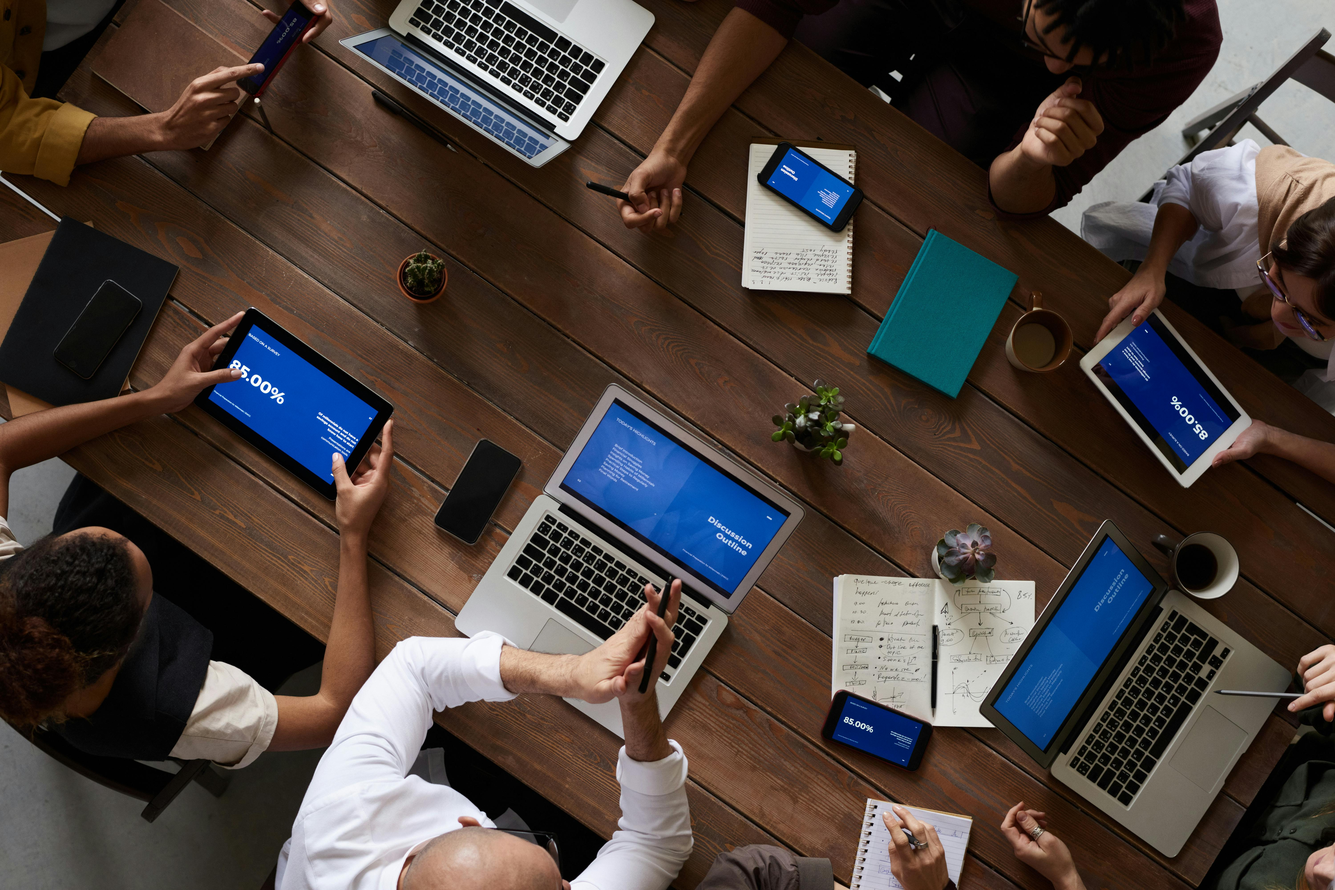
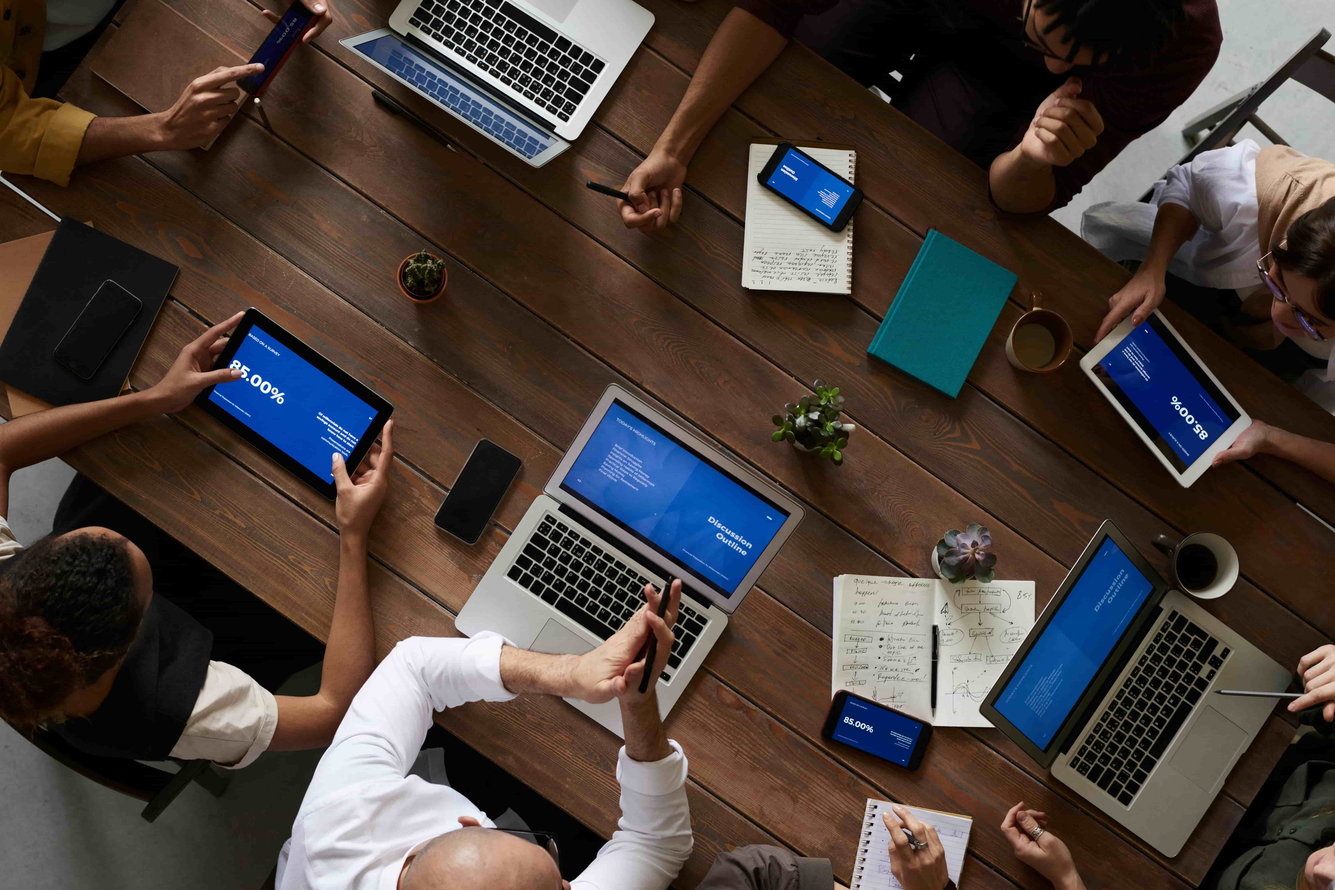
enforced www

Changed region(s): [[0.2493, 0.4683, 0.2805, 0.4995]]

diff --git a/components/footer.tsx b/components/footer.tsx
@@ -1,6 +1,7 @@
-import { FaFacebookF, FaTwitter, FaLinkedinIn, FaInstagram,FaPaperPlane } from "react-icons/fa";
+import { FaFacebookF, FaTiktok , FaLinkedinIn, FaInstagram,FaYoutube } from "react-icons/fa";
 import Link from "next/link";
 import NewsletterForm from "./Newsletter";
+import { FaX, FaY, FaXTwitter } from "react-icons/fa6";
 
 export default function Footer() {
   return (
@@ -32,10 +33,10 @@ export default function Footer() {
         <div className="flex flex-col gap-4 mt-4 md:mt-0 motion-preset-fade motion-delay-400">
           <h4 className="font-semibold text-gray-200">Socials</h4>
           <div className="flex gap-4">
-            <a href="#" className="text-gray-400 hover:text-peach transition"><FaFacebookF /></a>
-            <a href="#" className="text-gray-400 hover:text-peach transition"><FaTwitter /></a>
-            <a href="#" className="text-gray-400 hover:text-peach transition"><FaLinkedinIn /></a>
-            <a href="#" className="text-gray-400 hover:text-peach transition"><FaInstagram /></a>
+            <a href="https://www.facebook.com/profile.php?id=61588566181619" className="text-gray-400 hover:text-peach transition" target="_blank"><FaFacebookF /></a>
+            <a href="https://x.com/peach_state2026" className="text-gray-400 hover:text-peach transition" target="_blank"><FaXTwitter /></a>
+            <a href="https://www.tiktok.com/@peach_state_tech" className="text-gray-400 hover:text-peach transition" target="_blank"><FaTiktok  /></a>
+            <a href="https://www.youtube.com/@PeachStateTech" className="text-gray-400 hover:text-peach transition" target="_blank"><FaYoutube /></a>
           </div>
         </div>
 

diff --git a/app/terms/page.tsx b/app/terms/page.tsx
@@ -2,12 +2,12 @@ import type { Metadata } from 'next';
 
 export const metadata: Metadata = {
   title: 'Terms of Service | Peach State Tech',
-  description: 'Read the Terms of Service for Peach State Tech. Learn about our website usage policies, user agreements, and legal guidelines for accessing our tech news and digital insights.',
+  description: 'Learn about our website usage policies, user agreements, and legal guidelines for accessing our tech news and digital insights.',
   keywords: ['terms of service', 'terms and conditions', 'user agreement', 'legal', 'website policies', 'Peach State Tech'],
   openGraph: {
     title: 'Terms of Service | Peach State Tech',
     description: 'Terms of Service and user agreements for Peach State Tech.',
-    url: 'https://peachstate.tech/terms',
+    url: 'https://www.peachstate.tech/terms',
     siteName: 'Peach State Tech',
     type: 'website',
     images: [
@@ -30,7 +30,7 @@ export const metadata: Metadata = {
     follow: true,
   },
   alternates: {
-    canonical: 'https://peachstate.tech/terms',
+    canonical: 'https://www.peachstate.tech/terms',
   },
 };
 

diff --git a/app/privacy/page.tsx b/app/privacy/page.tsx
@@ -2,12 +2,12 @@ import type { Metadata } from 'next';
 
 export const metadata: Metadata = {
   title: 'Privacy Policy | Peach State Tech',
-  description: 'Learn how Peach State Tech collects, uses, and protects your personal information. Our Privacy Policy outlines our commitment to your data security and privacy rights.',
+  description: 'Our Privacy Policy outlines our commitment to your data security and privacy rights.',
   keywords: ['privacy policy', 'data protection', 'personal information', 'user privacy', 'data security', 'Peach State Tech'],
   openGraph: {
     title: 'Privacy Policy | Peach State Tech',
     description: 'Our commitment to protecting your privacy and personal information at Peach State Tech.',
-    url: 'https://peachstate.tech/privacy',
+    url: 'https://www.peachstate.tech/privacy',
     siteName: 'Peach State Tech',
     type: 'website',
     images: [
@@ -30,7 +30,7 @@ export const metadata: Metadata = {
     follow: true,
   },
   alternates: {
-    canonical: 'https://peachstate.tech/privacy',
+    canonical: 'https://www.peachstate.tech/privacy',
   },
 };
 

diff --git a/app/blog/[slug]/page.tsx b/app/blog/[slug]/page.tsx
@@ -83,13 +83,13 @@ export async function generateMetadata({ params }: PageProps): Promise<Metadata>
 
   return {
     title: `${post.title} | Peach State Tech`,
-    description: `${post.title}. ${post.description}`,
+    description: `${post.description}`,
     authors: [{ name: "Peach State Tech" }],
     openGraph: {
       title: post.title,
-      description: `${post.title}. ${post.description}`,
+      description: ` ${post.description}`,
       type: "article",
-      url: `https://peachstate.tech/blog/${post.slug}`,
+      url: `https://www.peachstate.tech/blog/${post.slug}`,
       siteName: `${post.title} | Peach State Tech`,
       images: [
         {
@@ -101,7 +101,7 @@ export async function generateMetadata({ params }: PageProps): Promise<Metadata>
       ]
     },
     alternates: {
-      canonical: `https://peachstatetech.com/blog/${post.slug}`,
+      canonical: `https://www.peachstatetech.com/blog/${post.slug}`,
     },
     keywords: [
       post.title,

diff --git a/app/browse/layout.tsx b/app/browse/layout.tsx
@@ -4,7 +4,7 @@ import type { Metadata } from "next";
 
 export const metadata: Metadata = {
   title: "Browse Posts | Peach State Tech",
-  description: "Browse Georgia tech startups, news, and resources.",
+  description: "Browse Georgia tech startups, latest news and resources to discover emerging companies, trends and opportunities in a fast growing tech hub.",
   keywords: [
       'Peach State Tech',
       'Blog', 'Peach State Blog',
@@ -13,7 +13,7 @@ export const metadata: Metadata = {
   ],
   openGraph: {
     title: "Browse Posts | Peach State Tech",
-    description: "Browse Georgia tech startups, news, and resources.",
+    description: "Browse Georgia tech startups, latest news and resources to discover emerging companies, trends and opportunities in a fast growing tech hub.",
     url: "https://peachstate.tech/browse",
     siteName: "Peach State Tech",
     type: "website",

diff --git a/app/about/layout.tsx b/app/about/layout.tsx
@@ -14,11 +14,11 @@ export const metadata: Metadata = {
     title: "About Peach State Tech",
     description:
       "Discover how Peach State Tech supports Georgia’s startups and tech leaders through trusted media coverage.",
-    url: "https://peachstate.tech/about",
+    url: "https://www.peachstate.tech/about",
     siteName: "Peach State Tech",
     type: "article",
     images: [
-      {
+      {   
         url: "/happy.webp",
         width: 1200,
         height: 630,
@@ -31,7 +31,7 @@ export const metadata: Metadata = {
     follow: true,
   },
     alternates: {
-    canonical: 'https://peachstate.tech/about',
+    canonical: 'https://www.peachstate.tech/about',
   },
 };
 

diff --git a/app/layout.tsx b/app/layout.tsx
@@ -37,7 +37,7 @@ export const metadata: Metadata = {
     title: "Peach State Tech",
     description:
       "Positive, informative coverage that helps tech businesses get discovered by the people who matter most.",
-    url: "https://peachstate.tech",
+    url: "https://www.peachstate.tech",
     siteName: "Peach State Tech",
     type: "website",
     images: [
@@ -54,10 +54,9 @@ export const metadata: Metadata = {
     follow: true,
   },
   alternates: {
-    canonical: 'https://peachstate.tech',
+    canonical: 'https://www.peachstate.tech',
   },
 };
-
 
 export default function RootLayout({
   children,

diff --git a/app/contact/layout.tsx b/app/contact/layout.tsx
@@ -16,7 +16,7 @@ export const metadata: Metadata = {
     title: "Contact Peach State Tech",
     description:
       "Have questions or ideas? Get in touch with Peach State Tech and be part of our growing tech community.",
-    url: "https://peachstate.tech/contact",
+    url: "https://www.peachstate.tech/contact",
     siteName: "Peach State Tech",
     type: "website",
     images: [
@@ -33,7 +33,7 @@ export const metadata: Metadata = {
     follow: true,
   },
     alternates: {
-    canonical: 'https://peachstate.tech/contact',
+    canonical: 'https://www.peachstate.tech/contact',
   },
 };
 

diff --git a/app/thankyou/layout.tsx b/app/thankyou/layout.tsx
@@ -8,7 +8,7 @@ export const metadata: Metadata = {
     title: "Thank You for Reaching Out",
     description:
       "Your message has been received. Thanks for being part of the Peach State Tech community.",
-    url: "https://peachstate.tech/thankyou",
+    url: "https://www.peachstate.tech/thankyou",
     siteName: "Peach State Tech",
     type: "website",
     images: [
@@ -25,7 +25,7 @@ export const metadata: Metadata = {
     follow: true,
   },
     alternates: {
-    canonical: 'https://peachstate.tech/thankyou',
+    canonical: 'https://www.peachstate.tech/thankyou',
   },
 };
 

diff --git a/next-sitemap.config.js b/next-sitemap.config.js
@@ -12,7 +12,7 @@ export const sanityClient = createClient({
 })
 
 export default {
-  siteUrl: 'https://peachstate.tech',
+  siteUrl: 'https://www.peachstate.tech',
   generateRobotsTxt: true,
   sitemapSize: 5000,
   changefreq: 'weekly',
